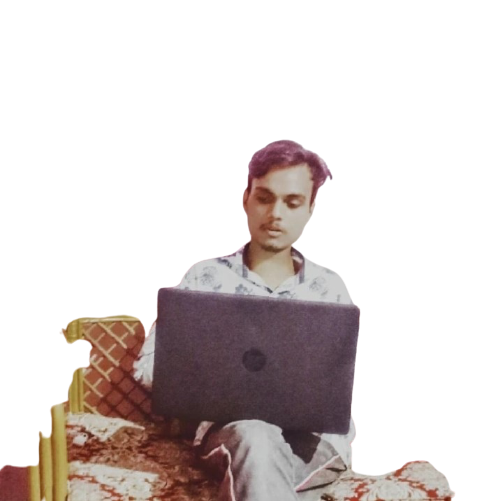
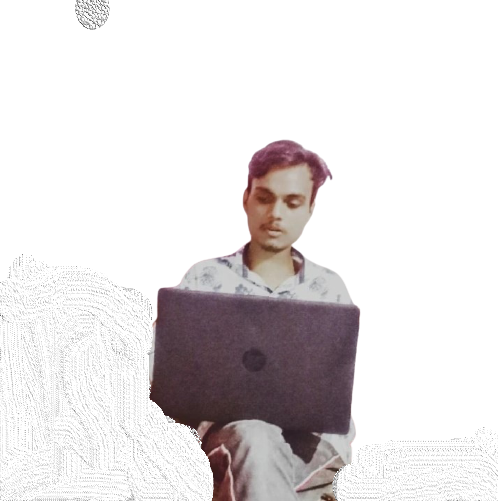
new change

diff --git a/index.html b/index.html
@@ -21,7 +21,7 @@
         
     </div>
     <div class="headerpart">
-   <img src="images/my-bg.png" alt="">
+   <img src="images/new.png" alt="">
     </div>
 </section>
 
